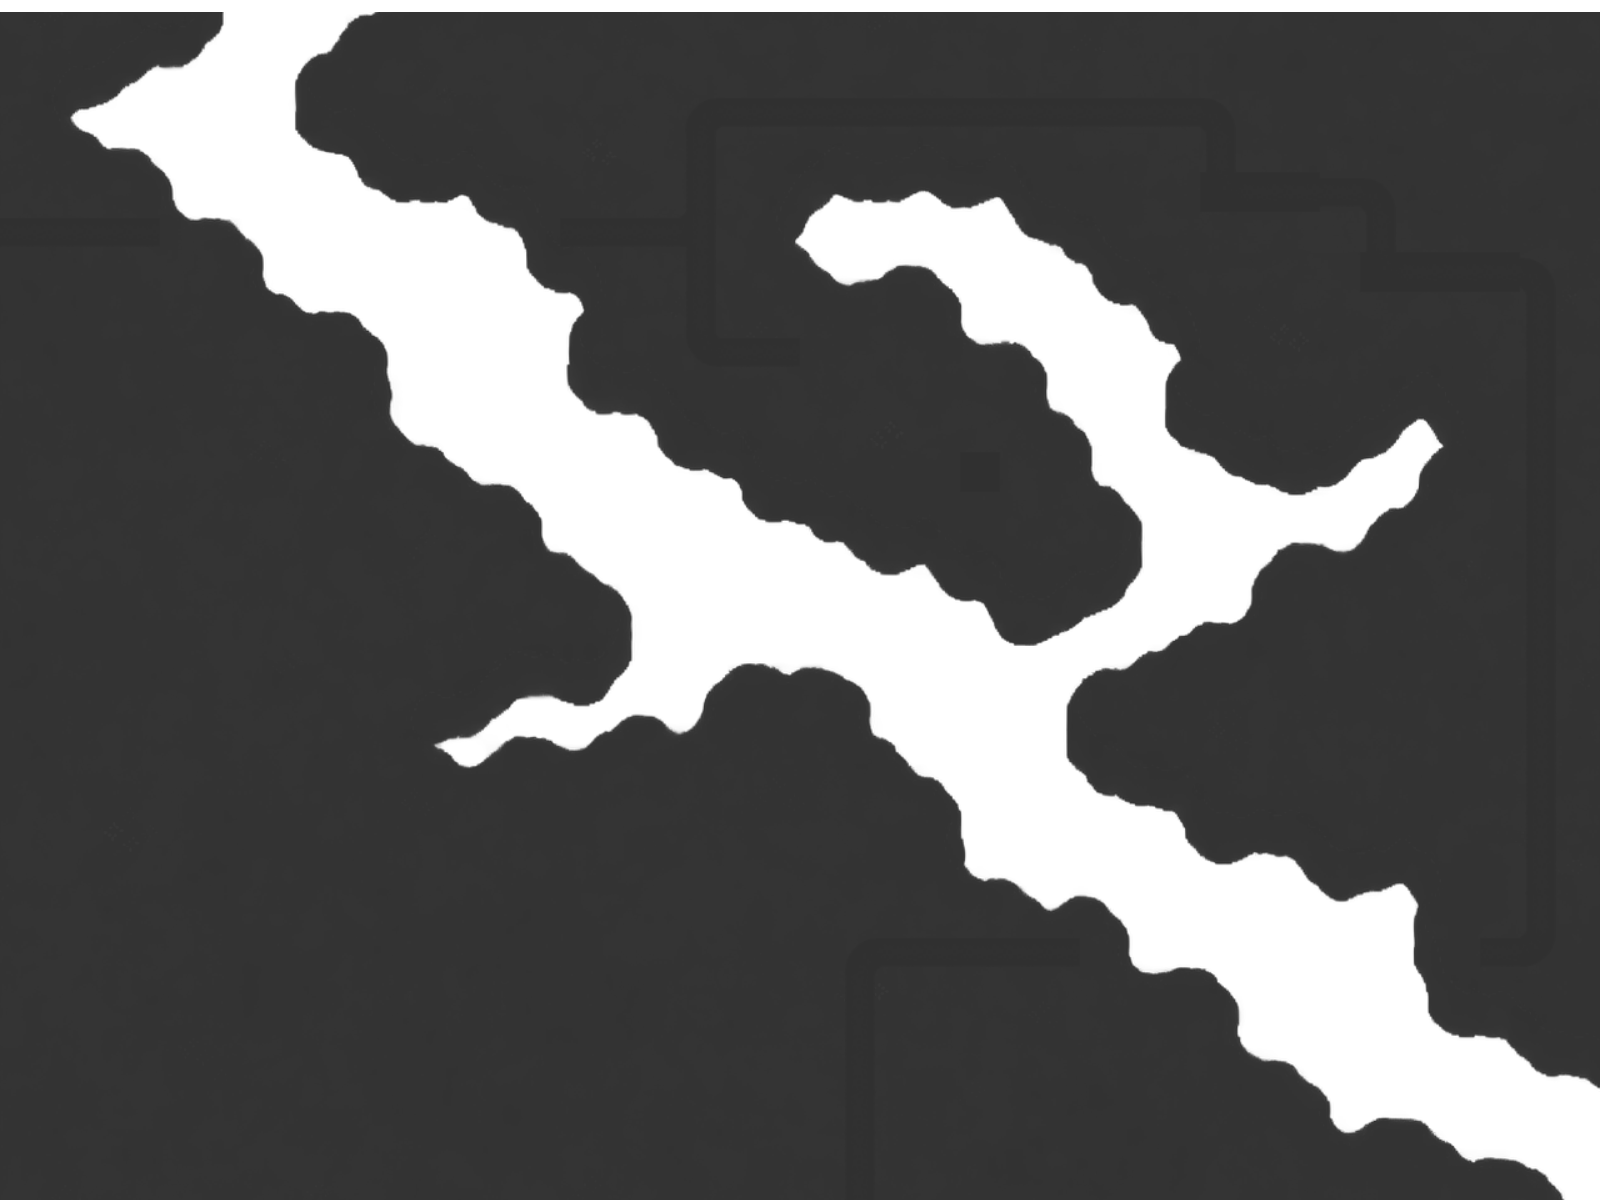
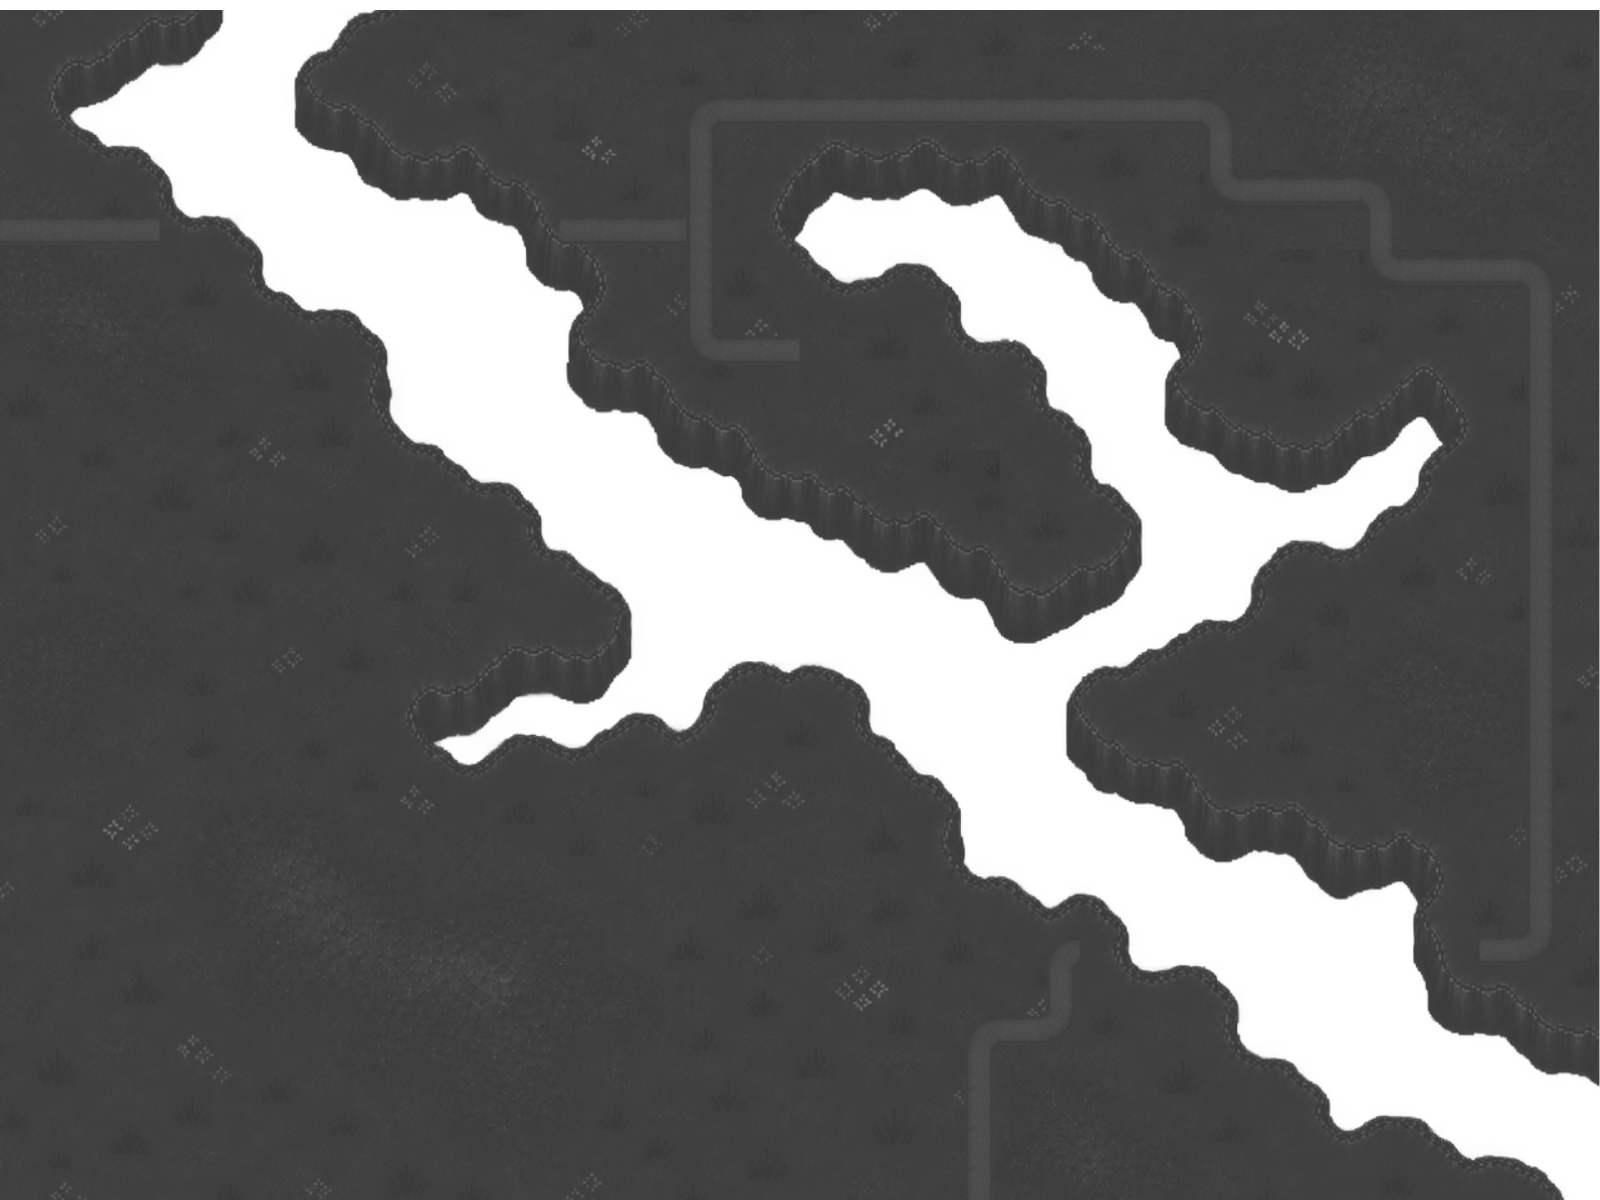
Update map shadows and game assets

diff --git a/tests/js/Level2Assets.test.js b/tests/js/Level2Assets.test.js
@@ -14,7 +14,7 @@ test('Level 2 uses final map filenames without a version suffix', () => {
     assert.ok(statSync(path.join(process.cwd(), 'public/assets/maps/level2-map.webp')).size < 2_000_000);
 });
 
-test('Level 2 map shadow fills the map and adds a darker overlay', () => {
+test('Level 2 map shadow fills the map with one layer like Level 1', () => {
     const layers = [];
     const scene = {
         add: {
@@ -56,16 +56,6 @@ test('Level 2 map shadow fills the map and adds a darker overlay', () => {
             width: 1600,
             height: 1200,
             depth: 0,
-        },
-        {
-            x: 0,
-            y: 0,
-            texture: 'level2Shadow',
-            origin: 0,
-            width: 1600,
-            height: 1200,
-            depth: 0,
-            alpha: 0.8,
         },
     ]);
 });

diff --git a/resources/js/game/Level2Assets.js b/resources/js/game/Level2Assets.js
@@ -26,16 +26,8 @@ export const level2MapImage = 'maps/level2-map.webp';
 export const level2MapShadowImage = 'maps/shadow_level2.png';
 
 export function addLevel2MapShadow(scene, width, height) {
-    const shadow = scene.add.image(0, 0, 'level2Shadow')
+    return scene.add.image(0, 0, 'level2Shadow')
         .setOrigin(0)
         .setDisplaySize(width, height)
         .setDepth(0);
-
-    scene.add.image(0, 0, 'level2Shadow')
-        .setOrigin(0)
-        .setDisplaySize(width, height)
-        .setDepth(0)
-        .setAlpha(0.8);
-
-    return shadow;
 }

diff --git a/resources/js/game/scenes/Level2Scene.js b/resources/js/game/scenes/Level2Scene.js
@@ -24,7 +24,7 @@ import challenges, {
 
 const playerScale = 0.245;
 // Air sedikit tembus pandang agar bayangan tepi sungai di bawahnya tetap terlihat.
-const waterLayerAlpha = 0.72;
+const waterLayerAlpha = 0.84;
 
 export default class Level2Scene extends Phaser.Scene {
     constructor({
